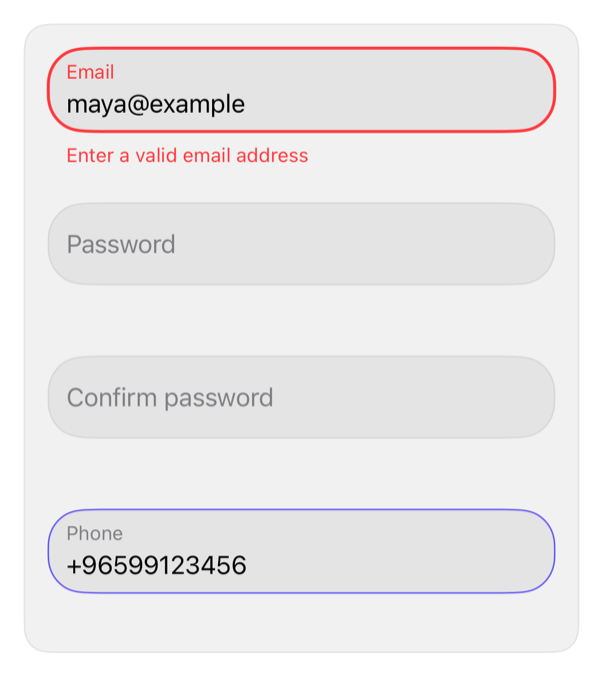
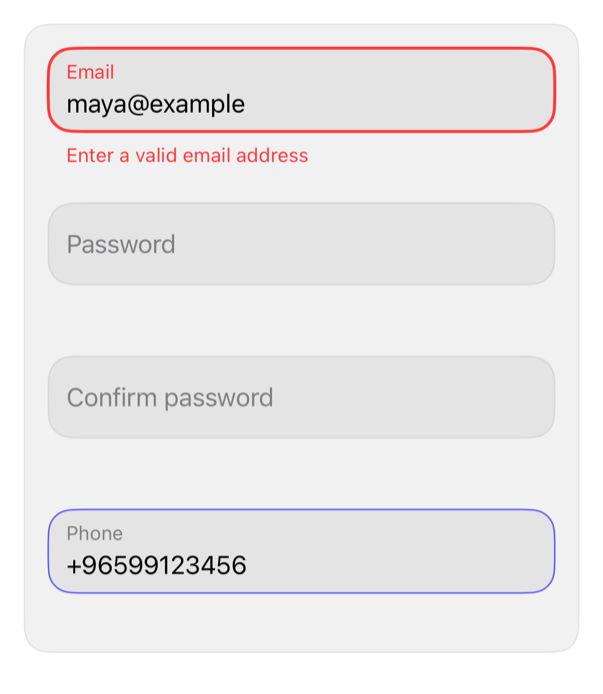
Round validated-input to 16 points
By specifier.

diff --git a/Examples/Showcase/SwiftUIRegistryShowcasePackage/Sources/SwiftUIRegistryShowcaseFeature/Installed/ValidatedInput.swift b/Examples/Showcase/SwiftUIRegistryShowcasePackage/Sources/SwiftUIRegistryShowcaseFeature/Installed/ValidatedInput.swift
@@ -164,7 +164,7 @@ public struct ValidatedInput: View {
 
     @ViewBuilder
     private var field: some View {
-        let shape = RoundedRectangle(cornerRadius: 24, style: .continuous)
+        let shape = RoundedRectangle(cornerRadius: 16, style: .continuous)
         // The label line above the text is always reserved by a hidden copy of
         // the label, so the field keeps one height; the label rises into that
         // line inside the field and never crosses the border.

diff --git a/Registry/sources/components/ValidatedInput.swift b/Registry/sources/components/ValidatedInput.swift
@@ -164,7 +164,7 @@ public struct ValidatedInput: View {
 
     @ViewBuilder
     private var field: some View {
-        let shape = RoundedRectangle(cornerRadius: 24, style: .continuous)
+        let shape = RoundedRectangle(cornerRadius: 16, style: .continuous)
         // The label line above the text is always reserved by a hidden copy of
         // the label, so the field keeps one height; the label rises into that
         // line inside the field and never crosses the border.
